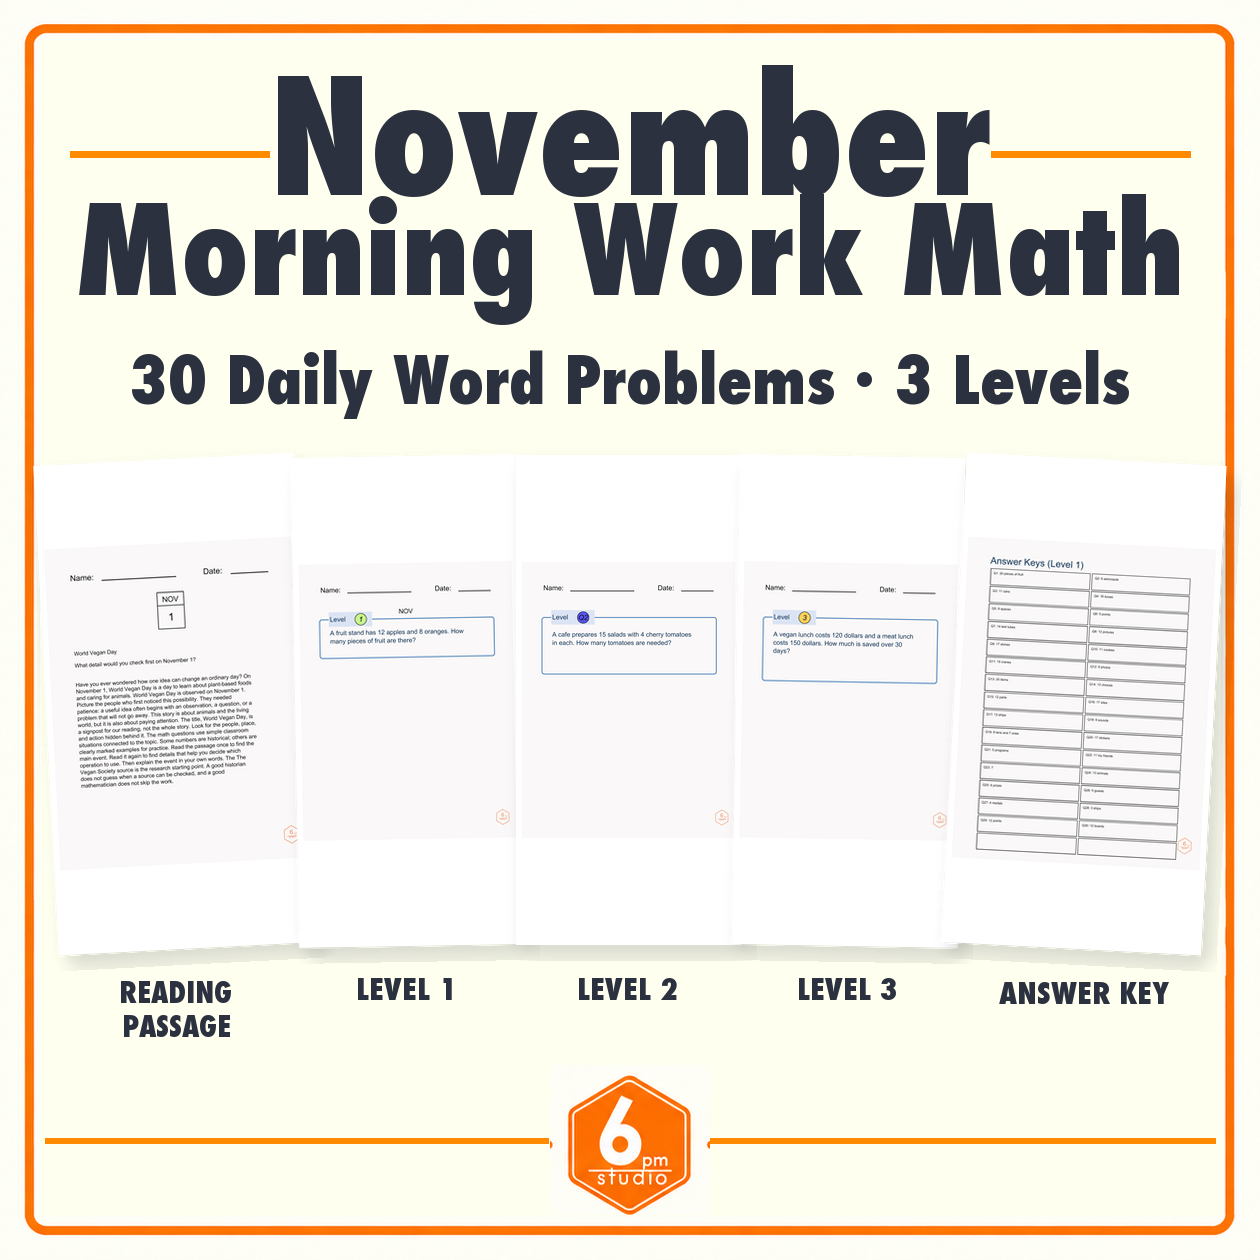
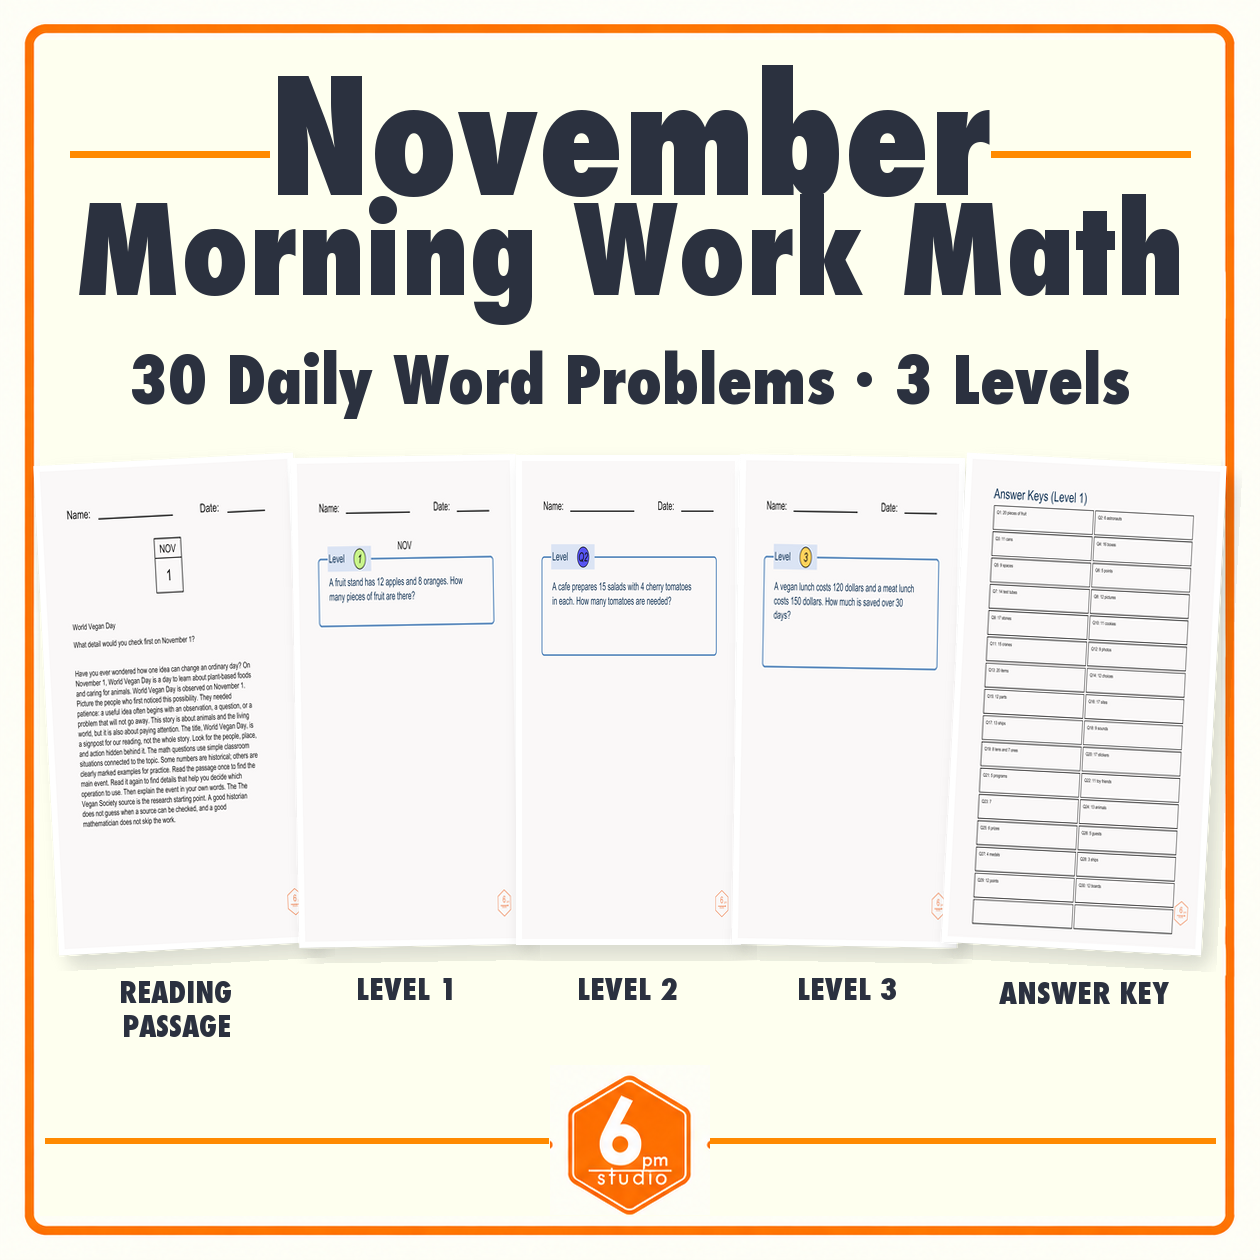
fix: validate worksheet card content coverage

diff --git a/scripts/validate-tpt-visual-structure.py b/scripts/validate-tpt-visual-structure.py
@@ -84,8 +84,8 @@ def card_structure_metrics(reference, actual, box):
             # its crop are materially brighter. This deliberately ignores
             # worksheet text while preserving card position, size, rotation,
             # overlap, and much of the shadow boundary.
-            ref_bits.append(rb > 248 and rr > 245 and rg > 245)
-            actual_bits.append(ab > 248 and ar > 245 and ag > 245)
+            ref_bits.append(rb > 245 and rr > 242 and rg > 242)
+            actual_bits.append(ab > 245 and ar > 242 and ag > 242)
     intersection = sum(a and b for a, b in zip(ref_bits, actual_bits))
     union = sum(a or b for a, b in zip(ref_bits, actual_bits))
     matches = sum(a == b for a, b in zip(ref_bits, actual_bits))
@@ -94,6 +94,61 @@ def card_structure_metrics(reference, actual, box):
         "silhouette_iou": round(intersection / union, 6) if union else 0.0,
         "silhouette_matching_ratio": round(matches / len(ref_bits), 6),
         "passed": (intersection / union >= 0.28 and matches / len(ref_bits) >= 0.38) if union else False,
+    }
+
+
+def card_content_metrics(reference, actual, box):
+    """Compare normalized worksheet ink placement without comparing copy pixels."""
+    x0, y0, x1, y1 = box
+
+    def metrics(image):
+        pixels = image.load()
+        points = []
+        for y in range(y0 + 12, y1 - 12):
+            for x in range(x0 + 12, x1 - 12):
+                r, g, b = pixels[x, y]
+                # Keep navy/blue worksheet ink and borders, while excluding
+                # ivory/white paper and the orange logo/shadow treatment.
+                if min(r, g, b) < 220:
+                    points.append((x, y))
+        if not points:
+            return None
+        min_x = min(x for x, _ in points)
+        min_y = min(y for _, y in points)
+        max_x = max(x for x, _ in points) + 1
+        max_y = max(y for _, y in points) + 1
+        height = y1 - y0
+        return {
+            "bbox": [min_x, min_y, max_x, max_y],
+            "top_margin_ratio": round((min_y - y0) / height, 6),
+            "bottom_margin_ratio": round((y1 - max_y) / height, 6),
+            "ink_span_ratio": round((max_y - min_y) / height, 6),
+        }
+
+    reference_metrics = metrics(reference)
+    actual_metrics = metrics(actual)
+    if not reference_metrics or not actual_metrics:
+        return {
+            "region": list(box),
+            "reference": reference_metrics,
+            "actual": actual_metrics,
+            "crop_mode": "unknown",
+            "passed": False,
+        }
+    top_delta = abs(actual_metrics["top_margin_ratio"] - reference_metrics["top_margin_ratio"])
+    bottom_delta = abs(actual_metrics["bottom_margin_ratio"] - reference_metrics["bottom_margin_ratio"])
+    span_delta = abs(actual_metrics["ink_span_ratio"] - reference_metrics["ink_span_ratio"])
+    return {
+        "region": list(box),
+        "reference": reference_metrics,
+        "actual": actual_metrics,
+        "crop_mode": "cover" if actual_metrics["ink_span_ratio"] >= 0.70 else "contain-like",
+        "deltas": {
+            "top_margin_ratio": round(top_delta, 6),
+            "bottom_margin_ratio": round(bottom_delta, 6),
+            "ink_span_ratio": round(span_delta, 6),
+        },
+        "passed": top_delta <= 0.10 and bottom_delta <= 0.10 and span_delta <= 0.12 and actual_metrics["ink_span_ratio"] >= 0.70,
     }
 
 
@@ -160,6 +215,12 @@ def main():
                 "regions": card_metrics,
                 "passed": all(item["passed"] for item in card_metrics.values()),
             }
+            content_metrics = {key: card_content_metrics(ref_rgb, actual_rgb, box) for key, box in card_regions.items()}
+            result["card_content"] = {
+                "method": "normalized worksheet ink bounds; copy pixels excluded",
+                "regions": content_metrics,
+                "passed": all(item["passed"] for item in content_metrics.values()),
+            }
             typography_regions = {
                 "month": (270, 40, 990, 190),
                 "title": (40, 200, 1220, 345),
@@ -196,7 +257,7 @@ def main():
                 "regions": typography_deltas,
                 "passed": all(item["passed"] for item in typography_deltas.values()),
             }
-            result["passed"] = result["passed"] and result["card_layout"]["passed"] and result["typography_layout"]["passed"]
+            result["passed"] = result["passed"] and result["card_layout"]["passed"] and result["card_content"]["passed"] and result["typography_layout"]["passed"]
         results.append(result)
     report = {"method": "fixed structural regions; variable month/content regions excluded", "results": results, "passed": all(x["passed"] for x in results)}
     Path(args.report).write_text(json.dumps(report, indent=2) + "\n")

diff --git a/scripts/generate_monthly_thumbnails.py b/scripts/generate_monthly_thumbnails.py
@@ -197,13 +197,20 @@ def pill(draw, box, text, size=34):
     draw.text((x + w // 2, y + 9), text, anchor="ma", fill="white", font=fitted(text, w - 24, size))
 
 
-def card(canvas, page, box, label, label_style="pill", label_width=None, outline=True):
+def card(canvas, page, box, label, label_style="pill", label_width=None, outline=True, fit_mode="contain"):
     x, y, w, h = box
     shadow = Image.new("RGBA", canvas.size, (0, 0, 0, 0))
     ImageDraw.Draw(shadow).rounded_rectangle((x + 8, y + 10, x + w + 8, y + h + 10), 12, fill=(43, 49, 63, 45))
     canvas.alpha_composite(shadow.filter(ImageFilter.GaussianBlur(8)))
     source = Image.open(page).convert("RGB")
-    fitted_image = ImageOps.contain(source, (w - 12, h - 12), method=Image.Resampling.LANCZOS)
+    target_size = (w - 12, h - 12)
+    if fit_mode == "cover":
+        # The canonical landing fixture maps the complete worksheet page into
+        # the fixed portrait card window. Preserve the real page and logo,
+        # while avoiding the false top/bottom bars produced by contain.
+        fitted_image = source.resize(target_size, Image.Resampling.LANCZOS)
+    else:
+        fitted_image = ImageOps.contain(source, target_size, method=Image.Resampling.LANCZOS)
     sheet = Image.new("RGB", (w, h), "white")
     sheet.paste(fitted_image, ((w - fitted_image.width) // 2, (h - fitted_image.height) // 2))
     canvas.paste(sheet, (x, y))
@@ -408,7 +415,7 @@ def compose_landing_page(month, day_count, pages, out):
     ]
     for key, cx, cy, width, height, angle, label in cards:
         worksheet = Image.new("RGBA", (width + 32, height + 32), (0, 0, 0, 0))
-        card(worksheet, pages[key], (16, 16, width, height), "", label_style="none", outline=False)
+        card(worksheet, pages[key], (16, 16, width, height), "", label_style="none", outline=False, fit_mode="cover")
         worksheet = worksheet.rotate(angle, resample=Image.Resampling.BICUBIC, expand=True)
         canvas.alpha_composite(worksheet, (cx - worksheet.width // 2, cy - worksheet.height // 2))
         label_lines = label.split("\n")

diff --git a/docs/monthly-thumbnail-prompts.md b/docs/monthly-thumbnail-prompts.md
@@ -261,9 +261,12 @@ these fixed regions aligned to the October reference:
   than the middle card. Preserve the fixture's proportions: wide outer cards
   and narrower inner cards (about 260×490 for the outer cards and 225×490 for
   the inner cards). The cards must not become a uniform flat grid.
-- Card previews: use the real November PDF pages, cropped/scaled into the
-  reference card windows without changing the card geometry. Do not let page
-  content determine card size or push cards vertically.
+- Card previews: use the real November PDF pages, scaled into the fixed
+  reference card windows without changing the card geometry. The landing
+  compositor must fill each portrait window with the complete rendered page
+  (including its real logo) instead of using `contain`, which creates false
+  top/bottom white bars. Do not let page content determine card size or push
+  cards vertically, and do not crop away the page's bottom logo.
 - Labels: preserve the reference uppercase navy labels, font weight, size,
   baseline, and the two-line `READING / PASSAGE` wrap. Labels must remain
   below the cards and above the footer region.
@@ -284,7 +287,9 @@ footer/logo. A single aggregate `passed=true` with a permissive global
 threshold is insufficient. Record each region's bounding box, clipping or
 overflow result, pixel-match ratio, SSIM/MAE, and an overlay/difference image;
 variable November worksheet copy may be excluded only inside the card content
-windows.
+windows; QA must still measure each card's normalized ink bounds, top/bottom
+whitespace ratios, and full-page coverage so a contain-like preview cannot
+pass as a reference-aligned card.
 
 Replace only month-specific content:
 - month name;
